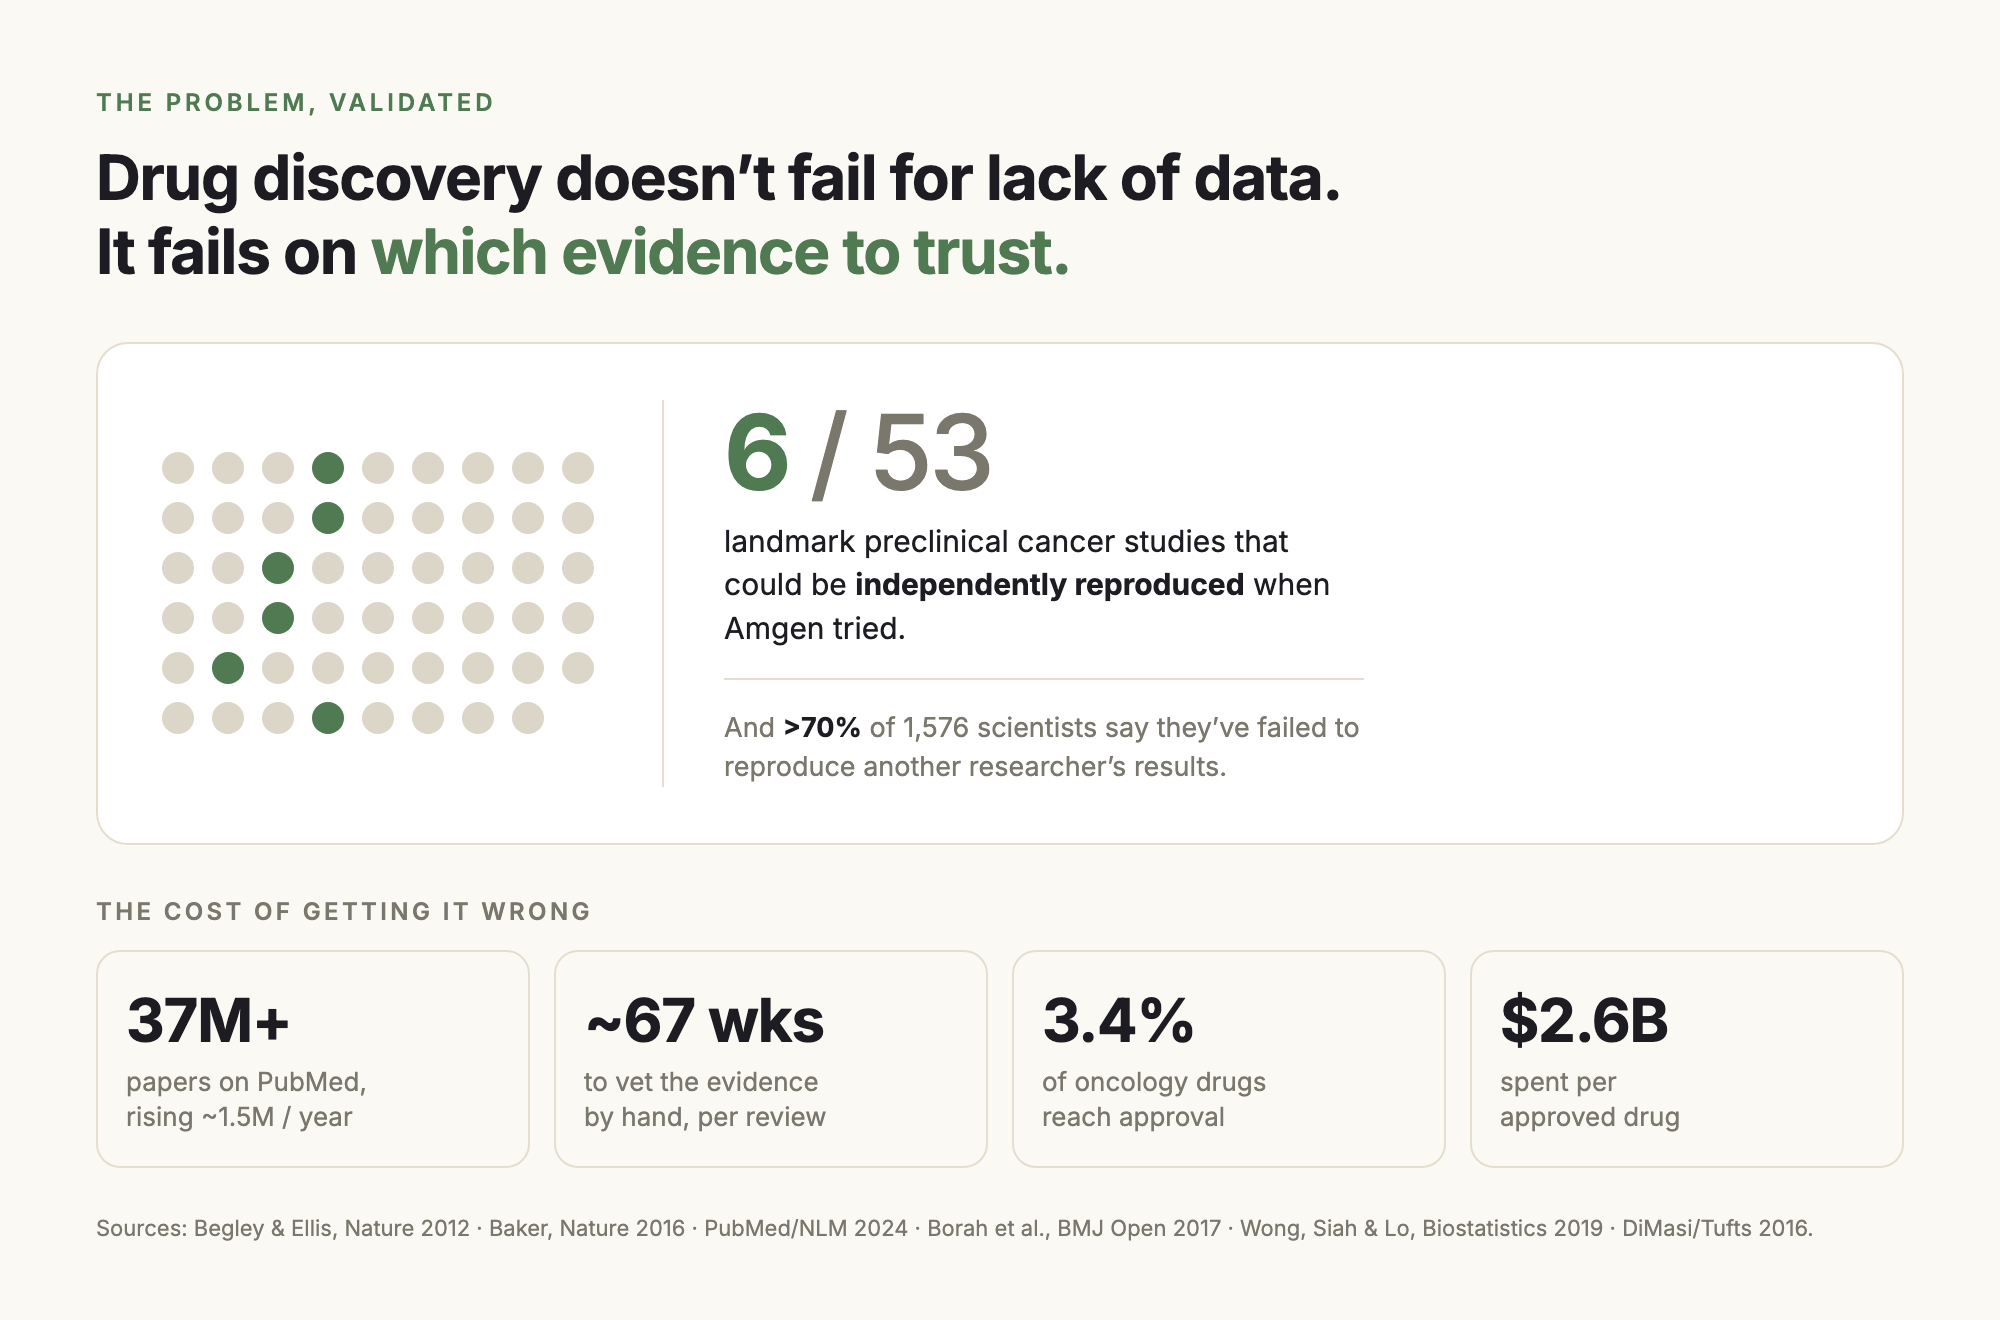
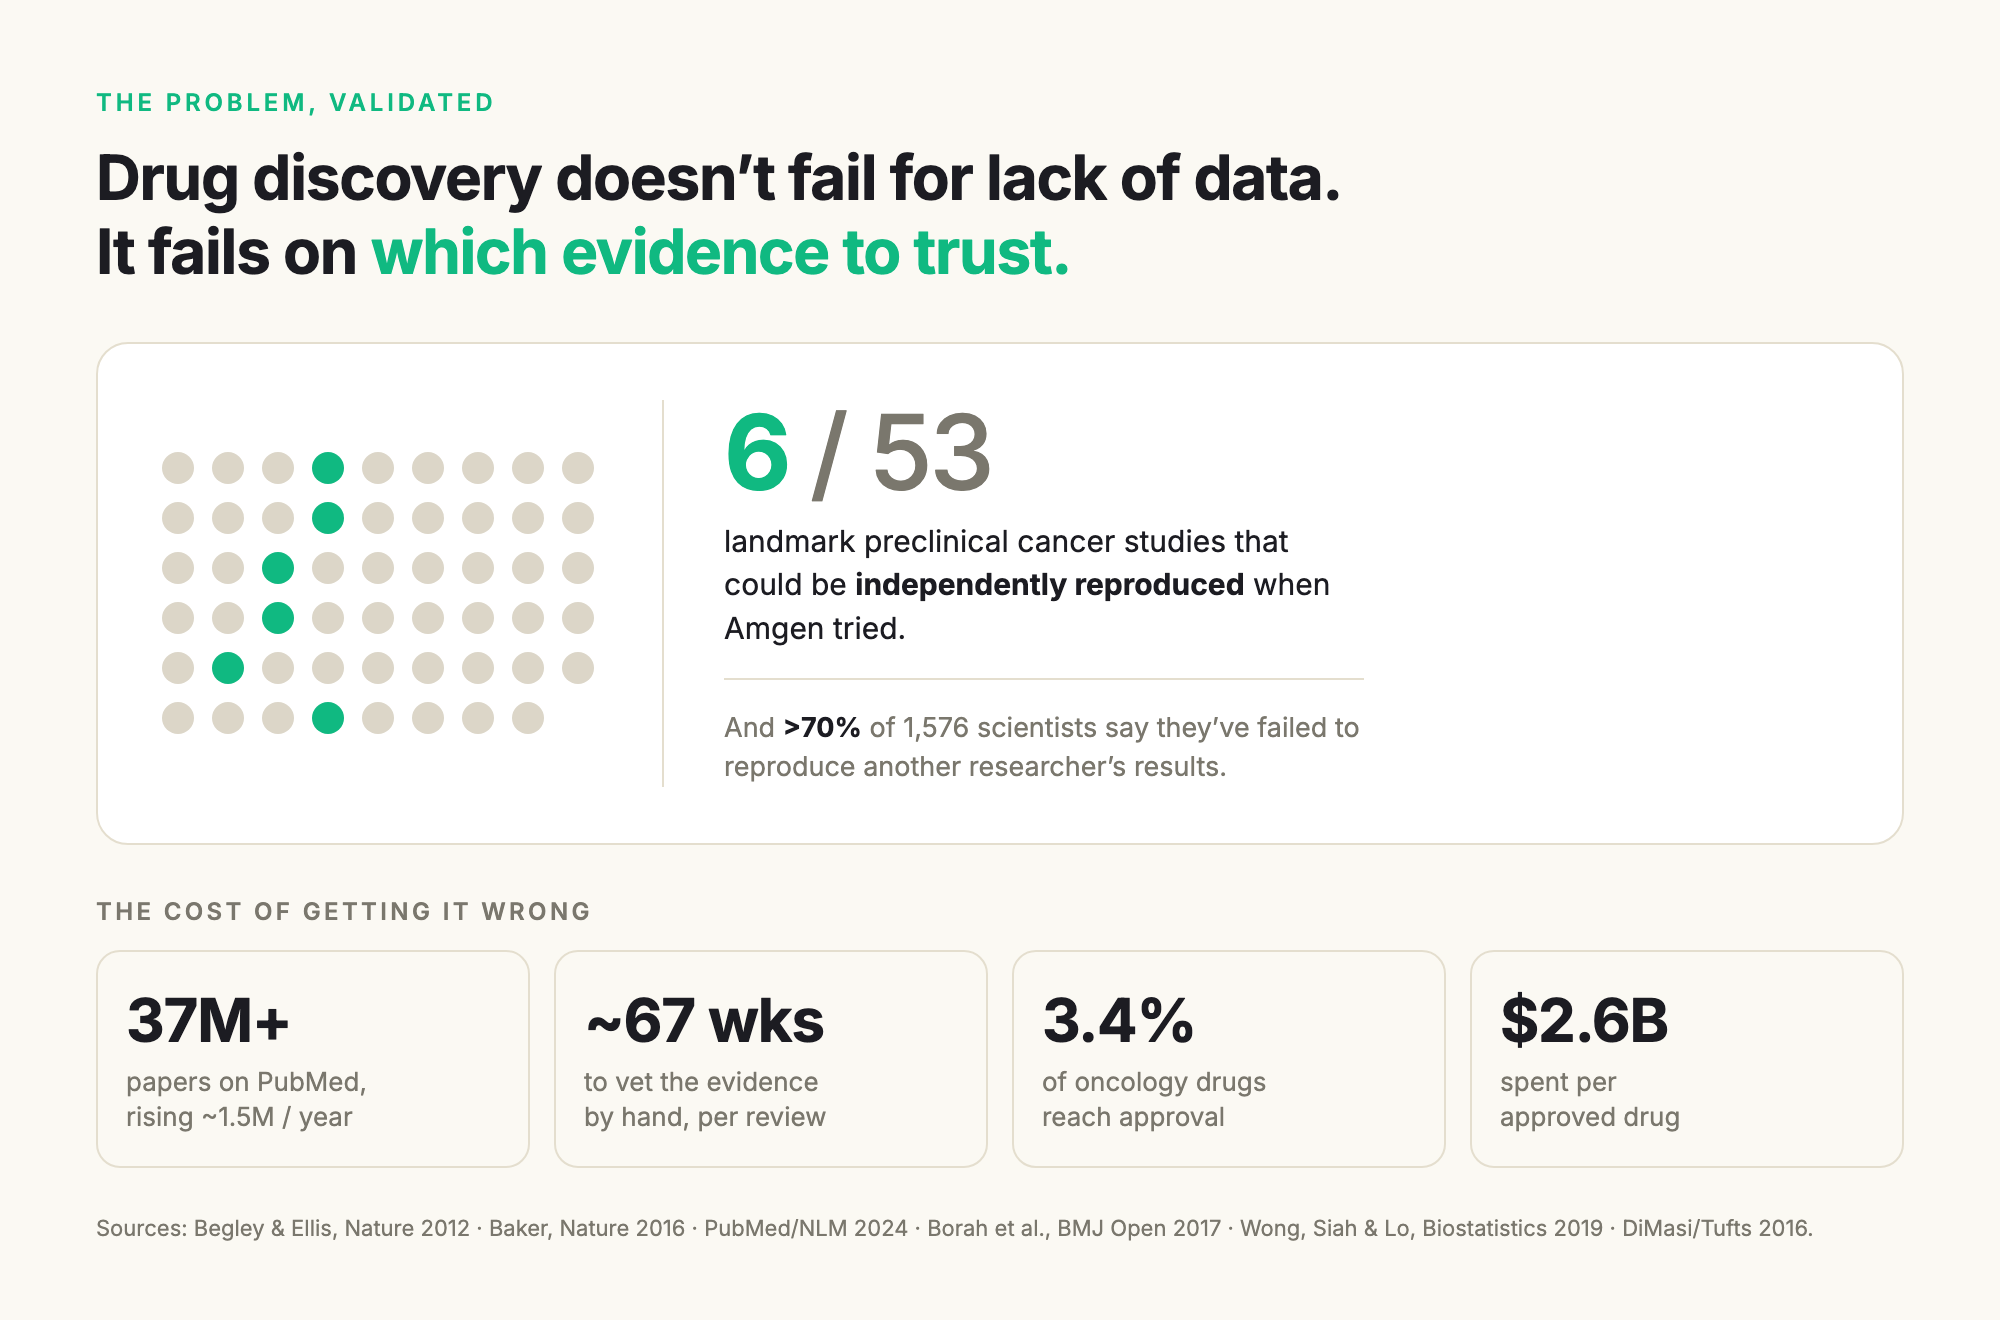
Adopt final Verdikt brand: checkmark-molecule mark + emerald palette
- Header now shows the real mark (navy check rising into an emerald
  molecule) + "VERDIKT" wordmark in bold all-caps; PNG favicon on a
  cream squircle. Assets (mark.png, favicon.png) derived from the
  chosen Verdikt-icon source and served from /static.
- Brand green moves from sage to the official Emerald #10B981 across
  the app accent (--good) and both docs figures (problem, how-it-works),
  matching the logo. Navy #16233C for the wordmark.
- Regenerated the README screenshot with the new branding, added the
  horizontal lockup (docs/logo.png) at the top of the README.

diff --git a/frontend/index.html b/frontend/index.html
@@ -4,7 +4,7 @@
 <meta charset="utf-8" />
 <meta name="viewport" content="width=device-width, initial-scale=1" />
 <title>Verdikt — Evidence-to-Decision Engine</title>
[1 lines of base64/hex data omitted]
+<link rel="icon" type="image/png" href="/static/favicon.png">
 <link rel="preconnect" href="https://fonts.googleapis.com">
 <link rel="preconnect" href="https://fonts.gstatic.com" crossorigin>
 <link href="https://fonts.googleapis.com/css2?family=Inter:wght@400;500;600;700&family=Newsreader:ital,opsz,wght@1,18,400;1,18,500&display=swap" rel="stylesheet">
@@ -16,7 +16,7 @@
   --bg:#fbf9f3; --surface:#ffffff; --surface-2:#f4f0e6; --ink-card:#1a1a1f;
   --ink:#1c1c22; --ink-soft:#4a4a52; --muted:#7a776d;
   --line:#efe9dd; --line-2:#e4dece;
-  --good:#4f7a52; --ok:#4a6b8a; --steel:#5a5f92; --warn:#b0832f; --bad:#b1543f; --danger:#a83f4e;
+  --good:#10B981; --ok:#4a6b8a; --steel:#5a5f92; --warn:#b0832f; --bad:#b1543f; --danger:#a83f4e;
   --radius:20px; --radius-sm:13px;
   --sans:'Inter',-apple-system,BlinkMacSystemFont,'Segoe UI',sans-serif;
   --serif:'Newsreader',Georgia,'Times New Roman',serif;
@@ -33,8 +33,9 @@ a{color:inherit}
 /* ---------- top bar ---------- */
 .topbar{display:flex;align-items:center;justify-content:space-between;padding:24px 0}
 .brand{display:flex;align-items:center;gap:11px;cursor:pointer}
-.brand .mark{width:24px;height:24px;border-radius:7px;background:var(--ink-card);display:grid;place-items:center;color:#fff;font-size:13px}
-.brand span{font-weight:650;letter-spacing:-.01em;font-size:19px}
+.brand .mark{display:flex;align-items:center}
+.brand .mark img{height:26px;display:block}
+.brand span{font-weight:800;letter-spacing:.05em;font-size:18px;color:#16233C}
 .pill{font-size:11px;font-weight:600;text-transform:uppercase;letter-spacing:.08em;color:var(--muted);
   border:1px solid var(--line-2);padding:6px 13px;border-radius:999px}
 
@@ -287,7 +288,7 @@ a{color:inherit}
 <body>
 <div class="wrap">
   <header class="topbar">
-    <div class="brand" onclick="goHome()"><span class="mark"><svg width="15" height="15" viewBox="0 0 24 24" fill="none" stroke="currentColor" stroke-width="1.5" stroke-linecap="round" stroke-linejoin="round"><circle cx="12" cy="4.2" r="1.15" fill="currentColor" stroke="none"/><path d="M12 5.3V18.6"/><path d="M5 6.7h14"/><path d="M8 18.6h8"/><path d="M5 6.7 2.6 11.3M5 6.7 7.4 11.3"/><path d="M2.3 11.3Q5 14.4 7.7 11.3"/><path d="M19 6.7 16.6 11.3M19 6.7 21.4 11.3"/><path d="M16.3 11.3Q19 14.4 21.7 11.3"/></svg></span><span>Verdikt</span></div>
+    <div class="brand" onclick="goHome()"><span class="mark"><img src="/static/mark.png" alt="Verdikt"></span><span>VERDIKT</span></div>
     <div class="pill" id="engine-pill">longevity intelligence</div>
   </header>
 

diff --git a/README.md b/README.md
@@ -1,3 +1,7 @@
+<p align="center">
+  <img src="docs/logo.png" alt="VERDIKT — evidence to confident decisions" width="440">
+</p>
+
 # Verdikt — the Evidence-to-Decision Engine
 
 **Type in one thing — a drug, a gene, or a disease linked to aging — and Verdikt reads five